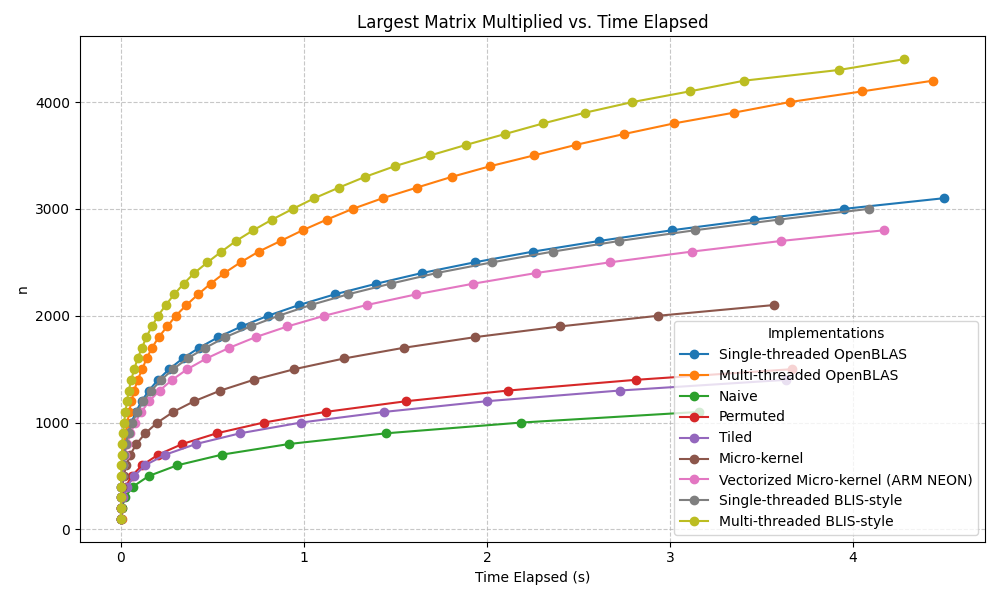
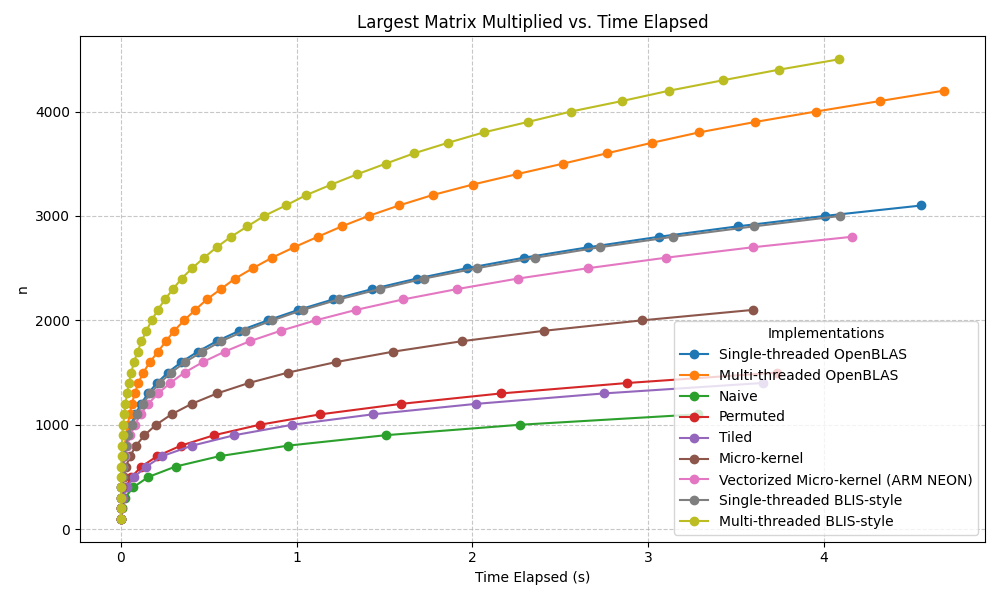
dynamic balances between P/E cores better

diff --git a/src/matmul_parallel.c b/src/matmul_parallel.c
@@ -230,7 +230,7 @@ int matmul_parallel(int n, const float *restrict A, const float *restrict B,
         // panels in the cache, and each iteration updates a different part 
         // of C. Also, the unit of computation is still worth parallelizing.
         // clang-format off
-        #pragma omp parallel for schedule(static)
+        #pragma omp parallel for schedule(dynamic)
         // clang-format on
         for (int jr = jc; jr < j_max; jr += NR) {
           const float *A_sliver = A_pack;